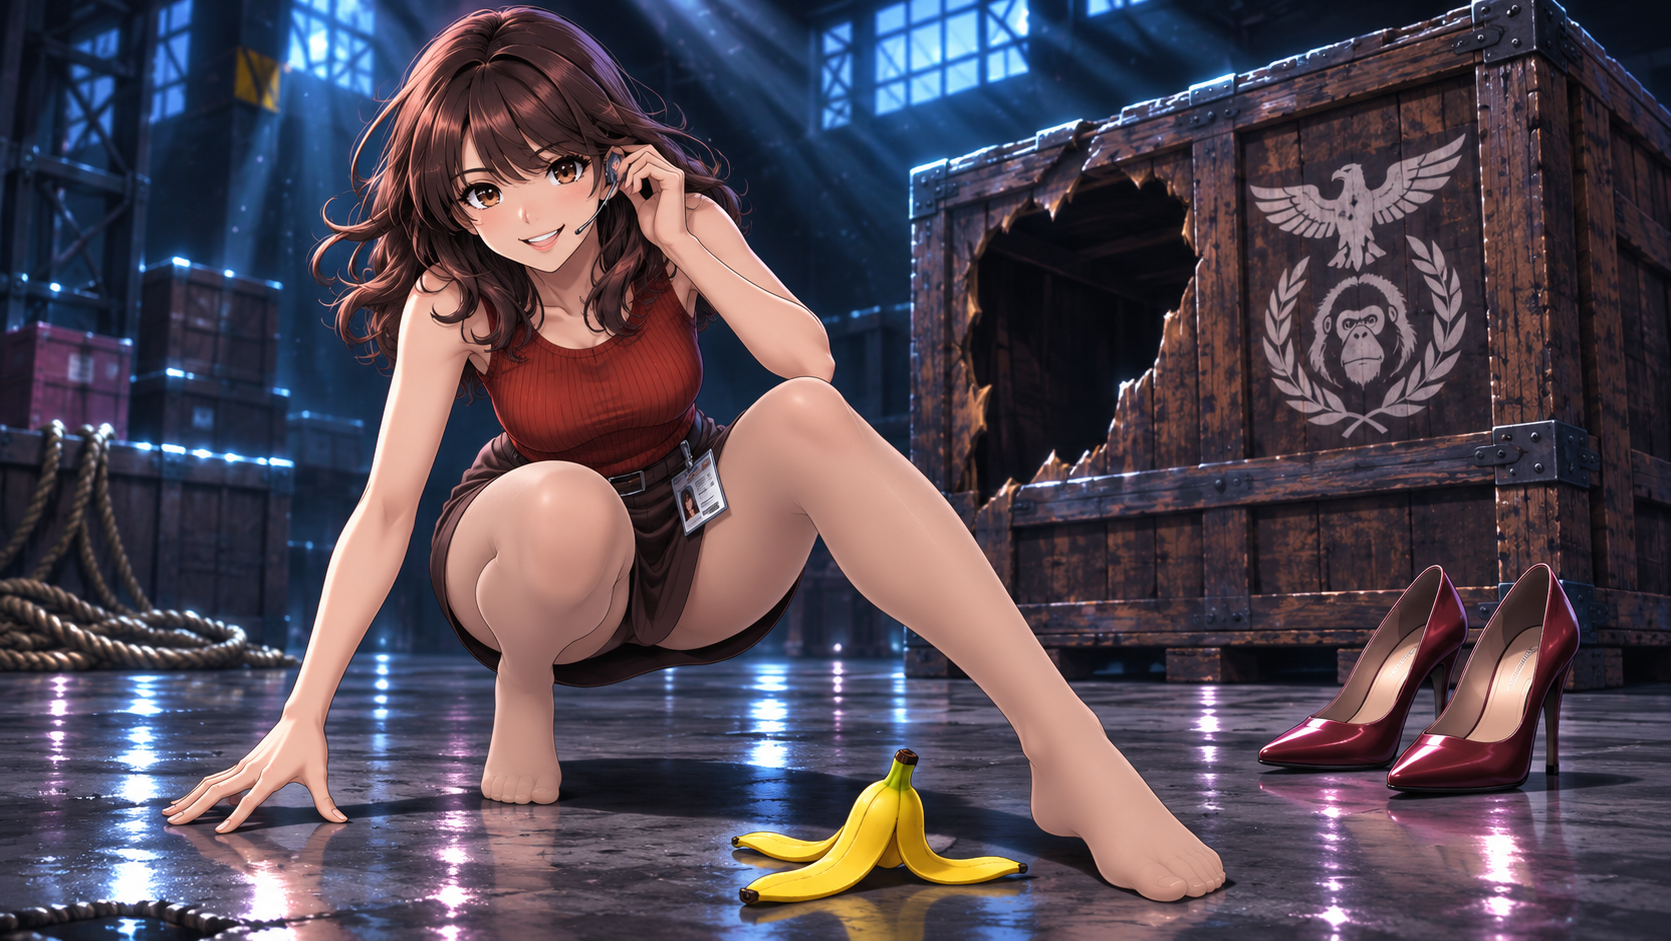
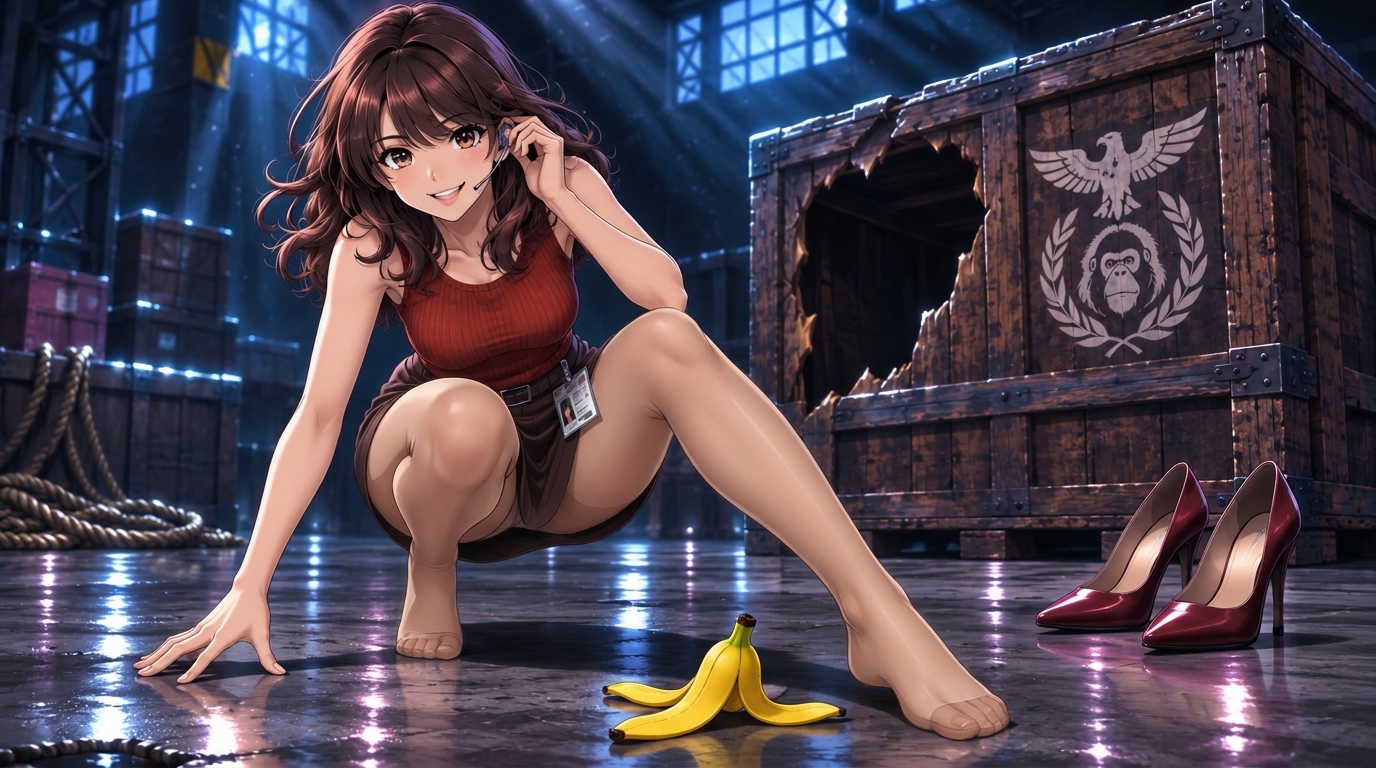
Finalize Ep1 15.png and update 04.png with 15D sheer nylon texture

diff --git a/PLANNING_CHANGELOG.md b/PLANNING_CHANGELOG.md
@@ -2,16 +2,15 @@
 
 ## 1. Active Production Roadmap (目前計劃與待辦事項)
 
-### Episode 1 Remaster: Operation Barefoot Banana (In Progress — Flow 7/7 DONE, 13 Standardized PNGs / 9 of 10 H3 Keyframes DONE, Only 15.png Pending)
+### Episode 1 Remaster: Operation Barefoot Banana (Ready for Colab H3 Render — Flow 7/7 DONE + 10/10 H3 Keyframes DONE)
 - [DONE] **Legacy Archive & Audit (`ep1_shots/Archive/LEGACY_EP1_AUDIT.md`)**: Probed all 24 legacy `.mp4` clips (`1280x720` + 2 H3 `1344x768` epilogues) and consolidated all 25 legacy `.txt` prompt scripts (commit `2a24670`).
 - [DONE] **Step 2 (16-Shot Storyboard, Policy-Safe Rules, Prompts & Assembler)**: Locked `ep1_shots/storyboard.md` (`01`–`16` + `Flow_Bridge_09_10`), permanent **Rule A** (Flow Omni 1.2 policy-safe video prompting + Z-axis depth-axis entrances preventing sideways slides) & **Rule B** (semi-matte 15-denier sheer light nude-beige nylon pantyhose without oily glare + 4 ChatGPT anti-trap rules + 0-credit Nano Banana 2.1 `Thinking: High` single-image localized fix + Keyframe Engine Split) in `prompts/style_guide.md` & `AGENTS.md`, clean 20 H3 prompts (`01, 02, 04, 06, 07, 10, 12, 14, 15, 16`), scrubbed `FLOW_PROMPTS_PLAN.md`, and 16-shot `ep1_shots/assemble_ep1.sh`.
-- **Step 3 (16:9 Single-Frame Keyframes — 13 Standardized PNGs `[DONE]`; 9/10 H3 Keyframes `[DONE]`; Only `15.png` `[TODO]`)**:
-  - `[DONE]` **9/10 H3 Dialogue Keyframes Standardized in `ep1_shots/`**: `01.png` (`1672×941`), `02.png` (`1672×941`), `04.png` (`1671×941`), `06.png` (`1671×941`), `07.png` (`1376×768`, converted from `c8684e4a.jpg`), `10.png` (`1376×768`), `12.png` (`1376×768`, converted from `Agents_fighting...94b462d9.jpg`), `14.png` (`1376×768`, converted from `ec41af95.jpg`), and `16.png` (`1672×941`).
-  - `[DONE]` **4 Flow Frame-0 Reference PNGs Standardized in `ep1_shots/`**: `03.png` (`1376×768`, converted from `bf28250a.jpg`), `09.png` (`1280×720`), `11.png` (`1672×941`), and `13.png` (`1376×768`). (`05` & `08` already rendered directly into `Flow_Shot_05.mp4` & `Flow_Shot_08.mp4`).
-  - `[TODO]` **Sole Remaining H3 Keyframe (`1/10`)**: **`ep1_shots/15.png`** (HQ Custody Order & Charity Gala invitation discovery; use updated Rule B semi-matte 15D hosiery + matte black tactical combat vest + closed-mouth Barnaby prompt).
+- [DONE] **Step 3 (16:9 Single-Frame Keyframes — 14 Standardized PNGs `[DONE]`; 10/10 H3 Keyframes `[DONE]`)**:
+  - `[DONE]` **All 10/10 H3 Dialogue Keyframes Standardized in `ep1_shots/`**: `01.png` (`1672×941`), `02.png` (`1672×941`), `04.png` (`1376×768`, upgraded 15D sheer nylon texture; old `1671×941` backed up to `ep1_shots/Archive/04_old_opaque.png`), `06.png` (`1671×941`), `07.png` (`1376×768`), `10.png` (`1376×768`), `12.png` (`1376×768`), `14.png` (`1376×768`), `15.png` (`1672×941`, converted from `Triumphant Command Centre Gathering.png`), and `16.png` (`1672×941`).
+  - `[DONE]` **All 4 Flow Frame-0 Reference PNGs Standardized in `ep1_shots/`**: `03.png` (`1376×768`, untouched), `09.png` (`1280×720`), `11.png` (`1672×941`), and `13.png` (`1376×768`). (`05` & `08` already rendered directly into `Flow_Shot_05.mp4` & `Flow_Shot_08.mp4`).
 - **Step 4 (Dual-Engine Video Render & Assembly — `.gitignore` Verified for `*.mp4`)**:
   - `[DONE]` **Google Flow Omni 1.2 (`7/7` COMPLETE in `ep1_shots/flow/`, `1280×720 @ 24fps` h264+aac)**: `Flow_Shot_03.mp4` (`5.035s`), `Flow_Shot_05.mp4` (`4.032s`), `Flow_Shot_08.mp4` (`4.032s`), `Flow_Shot_09.mp4` (`5.035s`), `Flow_Bridge_09_10.mp4` (`6.037s`), `Flow_Shot_11.mp4` (`6.037s`), `Flow_Shot_13.mp4` (`6.037s`).
-  - `[TODO]` **MiniMax H3 Colab A100 (`0/20`)**: Ready once `15.png` is added — render `Ep1_Shot_{01,02,04,06,07,10,12,14,15,16}_{HK,EN}.mp4` (`COLAB_EXEC_TIMEOUT=1200 COLAB_HIGH_MEM=1`) ➔ `./ep1_shots/assemble_ep1.sh ALL`.
+  - `[TODO]` **MiniMax H3 Colab A100 (`0/20`)**: All 10 H3 keyframes & 20 bilingual prompts ready — render `Ep1_Shot_{01,02,04,06,07,10,12,14,15,16}_{HK,EN}.mp4` (`COLAB_EXEC_TIMEOUT=1200 COLAB_HIGH_MEM=1`) ➔ `./ep1_shots/assemble_ep1.sh ALL`.
 
 ### Episode 2 Planning (Completed — Director's Cut: 10 Flow Omni 1.2 Clips + Bilingual Hybrid Masters)
 - [DONE] **Step 1 (Character Roster & Turnaround Sheets)**: All 20 canonical characters locked in `bible/character_roster.md` and `bible/character_sheets/` (including Episode 2 debuts: `Oliver Kade.png`, `Finn Calder.png`, `Gideon Ward.png`, `Nia Vale.png`, and `Dorian Marlowe.png`).
@@ -49,6 +48,11 @@
   - [DONE] **Episode 2 Director's Cut Assembly**: Integrated all 10 Google Flow Omni 1.2 bridges & overrides (`Flow_Bridge_05_06.mp4`, `Flow_Bridge_09_10.mp4`, `Flow_Bridge_13_14.mp4`, `Flow_Bridge_14_15.mp4`, split `Flow_Bridge_15_16.mp4` + `Flow_Bridge_16_17.mp4`, replaced `Flow_Shot_11.mp4`, trimmed `Flow_Shot_15.mp4`, shared `Flow_Shot_19B.mp4`, `Flow_Shot_20.mp4`), applied `08 -> 07` causal Act II reorder, `Shot 16 (HK)` clean video swap (`Ep2_Shot_16_EN.mp4` video + `Ep2_Shot_16_HK.mp4` audio), trailing-silence-only `get_smart_duration` (`-42dB/d=0.60/+0.75s`) with `MAX_DUR=12.25` and `Shot 20` slow-mo stretch (`8.09s -> 12.25s`), and assembled final 27-segment Director's Cut Masters via `ep2_shots/assemble_ep2.sh ALL`: `Episode_2_Hybrid_Master_HK.mp4` (`221M`, `272.849s`) and `Episode_2_Hybrid_Master_EN.mp4` (`230M`, `272.849s`).
 
 ## 2. Changelog (更新日誌)
+
+### [2026-11-25] - Finalize Ep1 15.png & Upgrade 04.png (15D Sheer Nylon) — Flow 7/7 + H3 Keyframes 10/10 DONE
+- **Keyframe Finalization (`ep1_shots/04.png`, `ep1_shots/15.png`, `ep1_shots/Archive/04_old_opaque.png`)**:
+  - Backed up previous `ep1_shots/04.png` (`1671×941`) to `ep1_shots/Archive/04_old_opaque.png` and converted refined `ep1_shots/04.jpg` (15D sheer light nude-beige pantyhose with natural toe/sole detail) losslessly into `ep1_shots/04.png` (`1376×768`); left `ep1_shots/03.png` (`1376×768`) untouched.
+  - Standardized `Triumphant Command Centre Gathering.png` ➔ `ep1_shots/15.png` (`1672×941`), completing **all `10/10` Episode 1 H3 dialogue keyframes** alongside **all `7/7` Google Flow Omni 1.2 clips** (`storyboard.md` & roadmap updated `[DONE]`, ready for Colab A100 batch inference).
 
 ### [2026-11-25] - Upgrade Rule B to Semi-Matte 15D Hosiery & ChatGPT Anti-Trap Standards, Complete Flow 7/7 & Standardize 9 New Ep1 PNG Keyframes
 - **Rule B Semi-Matte 15D Hosiery & ChatGPT Anti-Trap Standards (`prompts/style_guide.md`, `AGENTS.md`, `ep1_shots/storyboard.md`)**:

diff --git a/ep1_shots/storyboard.md b/ep1_shots/storyboard.md
@@ -343,7 +343,7 @@ done
   - **16:9 Image Prompt**:
     `Single-frame 16:9 widescreen modern high-budget 2020s anime key visual illustration (Ufotable and Makoto Shinkai moonlight shafts blending with soft warehouse lighting), delicate thin lineart, natural soft diffused nylon and silk shading (no oily glare), non-photorealistic anime style, no split screen, no text. Classic Ensemble Epilogue inside the dimly lit dockside warehouse. Standing poised in the left foreground, Agent Chloe Han (dark bob with blue-and-white floral hair ornament, blue-and-white floral high-slit dress with sheer sleeves, subtle semi-matte sheer skin-tone stockings with jeweled thigh garter, silver-white floral high heels) lightly touches her comms earpiece with one hand and looks toward the camera with an elegant, playful smile. Sitting on the concrete floor in the right foreground beside knocked-out gear and flattened yellow banana peel with both detached burgundy heels resting cleanly aside, Agent Maya Tachibana (reddish-brown sleeveless top, dark brown mini skirt, both legs cleanly separated in shoeless stockinged feet in subtle semi-matte 15-denier sheer light nude-beige nylon pantyhose (warm light skin-toned beige, strictly NOT black, charcoal, grey, or dark brown), with natural soft diffused fabric shading along the leg contours and smooth translucent nylon seamlessly encasing the feet and toes (no oily glare, no bare skin texture, no exposed toenails), plus a yellow banana smudge on her right sole) bursts into helpless bright laughter next to Agent Saffron Sinclair (sleek black updo, black halter high-slit dress, subtle semi-matte sheer grey garter stockings, black high heels), who covers her face in an exasperated groan. Directly behind Maya and Saffron sits a quiet large orange orangutan with his mouth gently closed, holding a peeled yellow banana in one hand while poking Maya's right sole gently with one long finger. Keep all four legs and feet clearly separated on the floor.`
 
-- **`Ep1_Shot_15` (Save as `ep1_shots/15.png`)** — `[TODO — Sole Remaining H3 Keyframe]` *(Engine: ChatGPT)*
+- **`Ep1_Shot_15` (Saved as `ep1_shots/15.png`)** — `[DONE — Standardized PNG]` *(Engine: ChatGPT)*
   - **Attach Reference Sheets (`bible/character_sheets/`)**: `Commander Griz.png`, `Maya Tachibana.png`, `Agent Chloe.jpg`
   - **16:9 Image Prompt**:
     `Single-frame 16:9 widescreen modern high-budget 2020s anime key visual illustration (Ufotable and Makoto Shinkai cool cyan HQ glass lighting), delicate thin lineart, volumetric highlights, natural soft diffused fabric shading (no oily glare), no split screen, no flags, no text overlays. Inside the Continental Union HQ Command Center. On the left, 190cm clean-shaven buzz-cut Commander Griz (no mask, wearing a matte black tactical combat vest) sighs deeply with drooping eyes as he reluctantly extends a formal custody clipboard toward Agent Maya Tachibana. In the center, Maya Tachibana (wavy shoulder-length brown hair with earpiece, reddish-brown sleeveless top, dark brown mini skirt, subtle semi-matte 15-denier sheer light nude-beige nylon pantyhose (warm light skin-toned beige, strictly NOT black, charcoal, grey, or dark brown), with natural soft diffused fabric shading along the leg contours and smooth translucent nylon seamlessly encasing the feet and toes (no oily glare, no bare skin texture, no exposed toenails), wearing her restored burgundy high heels cleanly on both feet) beams with a radiant, triumphant smile beside the large expressive orange orangutan, who sits quietly with his mouth gently closed wearing a gleaming miniature golden Continental Union lapel badge pinned cleanly to his fur chest. Standing in the right foreground next to a seized wooden crate stamped with an embossed Golden Eagle Crest, Agent Chloe Han (blue-and-white floral dress, subtle semi-matte sheer skin-tone stockings with jeweled garter, silver-white floral heels, blue-ribbon white rabbit nearby) gracefully holds up a shimmering gold-foil formal invitation card between two fingers with a keen, intrigued gaze.`
